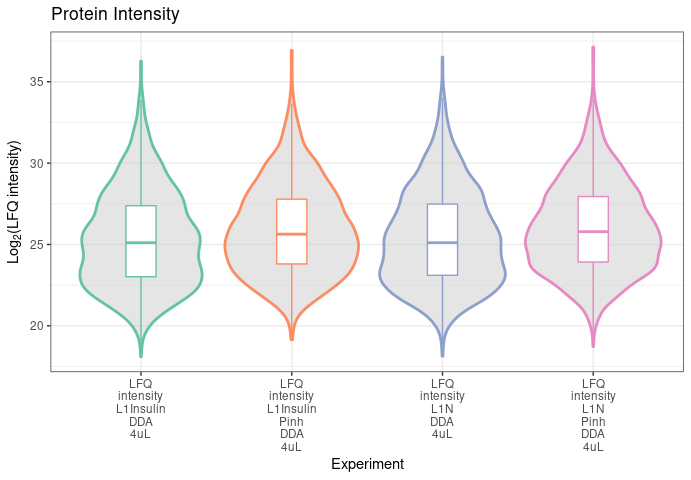
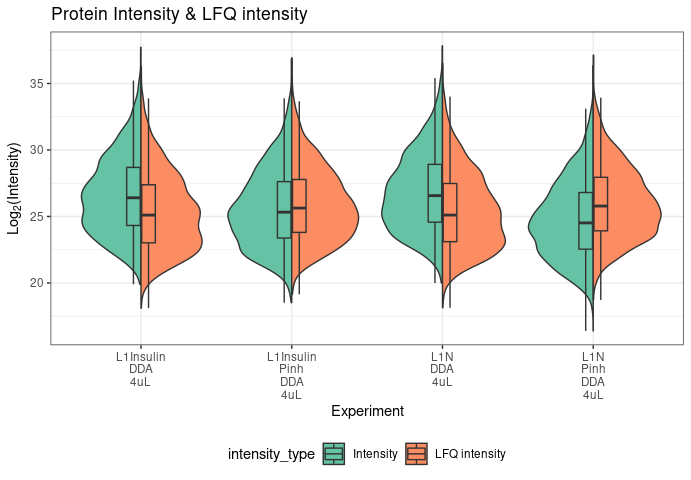
PCA added

diff --git a/README.md b/README.md
@@ -118,11 +118,17 @@ PlotIdentificationType(peptides,proteinGroups, long_names = TRUE, sep_names = '_
 <img src="man/figures/README-IdentificationType-1.png" width="100%" />
 
 ``` r
-PlotIntensity(proteinGroups, split_violin_intensity = FALSE, intensity_type = 'LFQ', 
+PlotIntensity(proteinGroups, split_violin_intensity = TRUE, intensity_type = 'LFQ', 
               log_base = 2, long_names = TRUE, sep_names = '_')
 ```
 
 <img src="man/figures/README-PlotIntensity-1.png" width="100%" />
+
+``` r
+PlotPCA(proteinGroups, intensity_type = 'Intensity')
+```
+
+<img src="man/figures/README-PlotPCA-1.png" width="100%" />
 
 ``` r
 PlotCombinedDynamicRange(proteinGroups, show_shade = TRUE, percent_proteins = 0.79)
